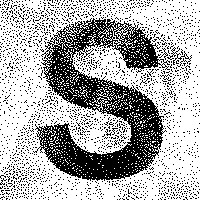
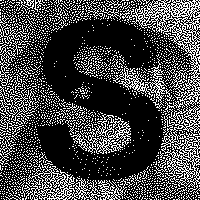
Rewrite decode_shares, run_step_0 in HVC-VAC.py

diff --git a/HVC-VAC.py b/HVC-VAC.py
@@ -3,6 +3,7 @@ import cv2
 import time
 import glob
 import argparse
+from matplotlib.cbook import flatten
 import numpy as np
 import matplotlib.pyplot as plt
 from scipy.signal import convolve2d as convolution
@@ -51,8 +52,11 @@ def show_image(img, title=None):
 
 def decode_shares(share1, share2):
     # We use XNOR for decoding rather than simple adding
-    # We would then have some good properties for our authentication scheme
-    decode = np.logical_not(np.logical_xor(share1, share2)).astype(float)
+    # We would the
+    decode = share1 + share2
+    decode[decode>=1] = 1
+    decode = 1 - decode
+    # decode = np.logical_not(np.logical_xor(share1, share2)).astype(float)
     return decode
 
 class HVC_VAC():
@@ -114,15 +118,18 @@ class HVC_VAC():
         
         # Select white region
         W_1 = np.random.choice(flat_mask, size=self.w_size//2, replace=False, p=self.w_mask.flatten()/np.sum(self.w_mask))
-        W_0_p = self.w_mask.flatten()
-        W_0_p[W_1] = 0.0
-        W_0 = np.random.choice(flat_mask, size=self.w_size//2, replace=False, p=W_0_p / np.sum(W_0_p))
+        # W_0_p = self.w_mask.flatten()
+        # W_0_p[W_1] = 0.0
+        # W_0 = np.random.choice(flat_mask, size=self.w_size//2, replace=False, p=W_0_p / np.sum(W_0_p))
+        W_0 = np.array(list(set(np.where(self.w_mask.flatten()==True)[0])-set(W_1)))
         
+
         # Select black region
         B_1 = np.random.choice(flat_mask, size=self.b_size//2, replace=False, p=self.b_mask.flatten()/np.sum(self.b_mask))
-        B_0_p = self.b_mask.flatten()
-        B_0_p[B_1] = 0.0
-        B_0 = np.random.choice(flat_mask, size=self.b_size//2, replace=False, p=B_0_p / np.sum(B_0_p))
+        # B_0_p = self.b_mask.flatten()
+        # B_0_p[B_1] = 0.0
+        # B_0 = np.random.choice(flat_mask, size=self.b_size//2, replace=False, p=B_0_p / np.sum(B_0_p))
+        B_0 = np.array(list(set(np.where(self.b_mask.flatten()==True)[0])-set(B_1)))
         
         # Get Rp1 & RP2
         RP1 = np.zeros(self.secret.flatten().shape)
@@ -138,7 +145,7 @@ class HVC_VAC():
         RP1[B_1] = 1
         RP2[B_1] = 0
         self.RPs = [np.reshape(RP1, self.secret.shape), np.reshape(RP2, self.secret.shape)]
-        
+        cv2.imwrite('d.png', decode_shares(self.RPs[0],self.RPs[1])*255)
         cluster_score_1 = self._get_score(self.RPs[0], 'cluster')
         cluster_score_2 = self._get_score(self.RPs[1], 'cluster')
         self.cluster_scores = [cluster_score_1, cluster_score_2]
